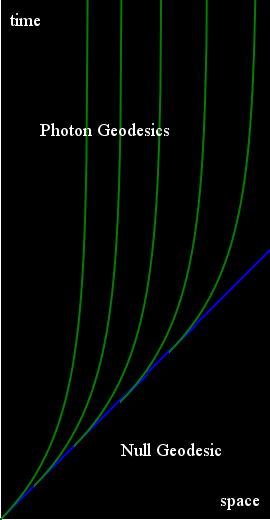
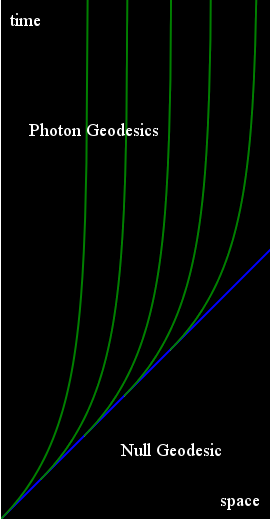
geodesic

diff --git a/index.htm b/index.htm
@@ -659,6 +659,8 @@ photon.f = (photon.v * 299792458 / photon.w)
     where D is the sum of the absolute value of its changes in the space direction.
 </p>
 
+<p class="pimg"><img src="img/geodesics.png"></p>
+
 <p>These extra individual paths that diverge from the common path can be seen as time dilations localized to an individual photon.</p> 
 
 <p class="pimg"><img src="img/lightcone_q.png" width="400"></p>
